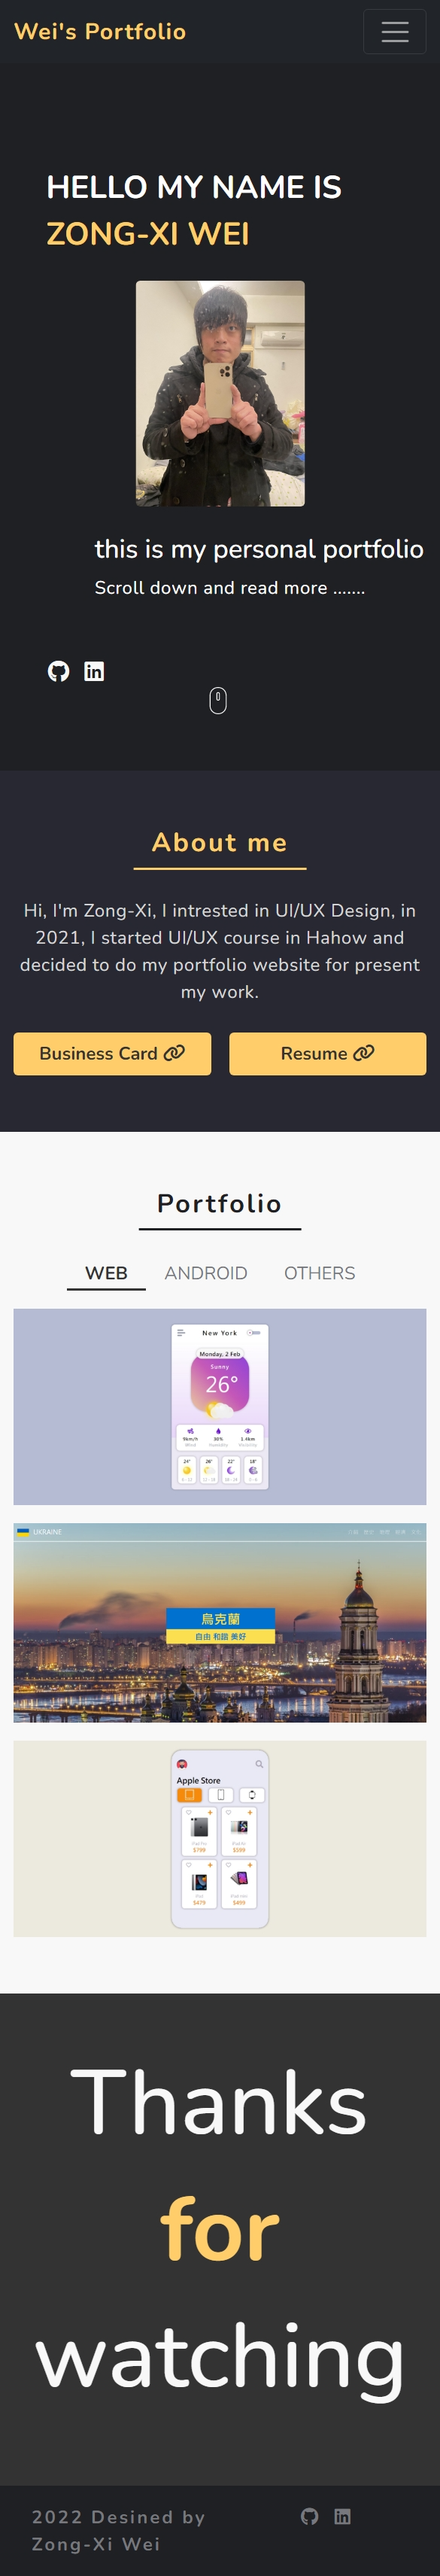
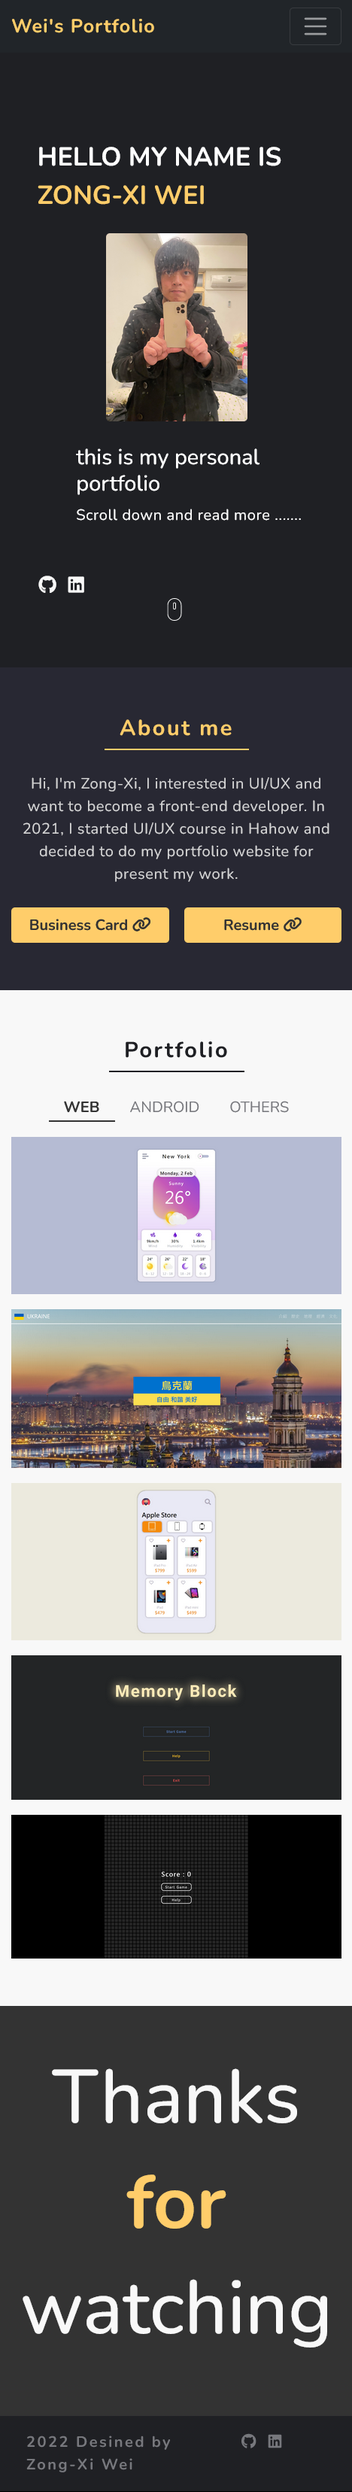
V1.1
新增 Web 作品：貪食蛇、記憶方塊

diff --git a/index.html b/index.html
@@ -88,7 +88,7 @@
 			</h3>
 			<div class="row">
 				<div class="col-md-6 offset-md-3 text-center pb-4 about">
-					Hi, I'm Zong-Xi, I interested in UI/UX and want to  become a front-end developer. In 2021, I started UI/UX course in Hahow and decided to do my portfolio website for present my work. 
+					Hi, I'm Zong-Xi, I interested in UI/UX and want to become a front-end developer. In 2021, I started UI/UX course in Hahow and decided to do my portfolio website for present my work. 
 				</div>
 			</div>
 			<div class="row g-3">
@@ -134,7 +134,7 @@
 				</ul>
 				<div id="PortfolioContent" class="tab-content">
 					<div id="WebPanel" class="tab-pane fade show active" role="tabpanel" aria-labelledby="WebTab">
-						<div class="row g-3">
+						<div class="row g-3 mb-3">
 							<div class="col-md-4 col-sm-6 col-6 work">
 								<img src="https://i.imgur.com/SH4komV.png" alt="WeatherBox-UI" class="img-fluid">
 								<a href="https://maydayxi.github.io/Weather-Box-UI" target="_blank">
@@ -153,6 +153,22 @@
 								<img src="https://i.imgur.com/qny9l8g.png" alt="Shopping Cart UI" class="img-fluid">
 								<a href="https://maydayxi.github.io/Shopping-Cart-UI/" target="_blank">
 									<h4 class="title">Shopping Cart UI</h4>
+									<i class="fa-solid fa-arrow-right-long"></i>
+								</a>
+							</div>
+						</div>
+						<div class="row g-3">
+							<div class="col-md-4 col-sm-6 col-6 work">
+								<img src="https://imgur.com/7I7DQvb.png" alt="Memory Block" class="img-fluid">
+								<a href="https://maydayxi.github.io/Memory-Block/" target="_blank">
+									<h4 class="title">Memory Block</h4>
+									<i class="fa-solid fa-arrow-right-long"></i>
+								</a>
+							</div>
+							<div class="col-md-4 col-sm-6 col-6 work">
+								<img src="https://imgur.com/q56GJVO.png" alt="Classic Snake" class="img-fluid">
+								<a href="https://maydayxi.github.io/Memory-Block/" target="_blank">
+									<h4 class="title">Classic Snake</h4>
 									<i class="fa-solid fa-arrow-right-long"></i>
 								</a>
 							</div>

diff --git a/css/index.css b/css/index.css
@@ -172,7 +172,6 @@ section .page-title {
 }
 
 #Portfolio .tab-content {
-	height: 300px;
 	min-height: 300px;
 	overflow: hidden;
 }

diff --git a/README.md b/README.md
@@ -5,6 +5,7 @@ My personal portfolio
 ### History
 
 - 2022-04-23：V1.0 initial
+- 2022-12-04：V1.1 新增作 web 作品
 
 ### Screenshot
 - Computer
